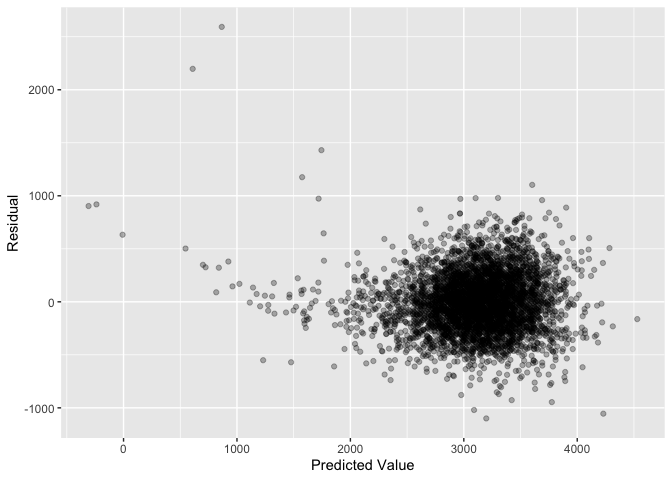
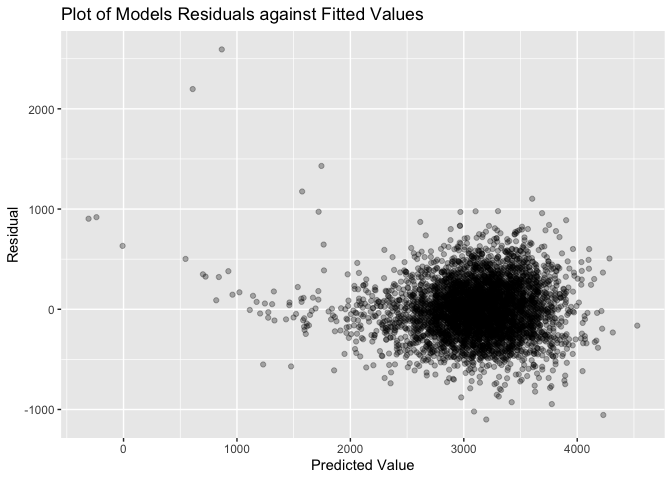
changing my_model

diff --git a/p8105_hw6_zv2138.md b/p8105_hw6_zv2138.md
@@ -55,14 +55,42 @@ model.
 -   baby’s head circumference at birth (centimeters) - it is logical to
     think bigger headed babies are on average larger babies so weigh
     more
--   presence of malformations that could affect weight - clearly this
-    variable indicates it may affect the baby’s weight
 -   mother’s age at delivery (years) - research shows older mothers
     usually is associated with birth weight
 
 ``` r
-my_model = lm(bwt ~ babysex + gaweeks + wtgain + blength + bhead + malform + momage, data = birthweight_df) 
+my_model = lm(bwt ~ babysex + gaweeks + wtgain + blength + bhead + momage, data = birthweight_df) 
+
+summary(my_model)
 ```
+
+    ## 
+    ## Call:
+    ## lm(formula = bwt ~ babysex + gaweeks + wtgain + blength + bhead + 
+    ##     momage, data = birthweight_df)
+    ## 
+    ## Residuals:
+    ##      Min       1Q   Median       3Q      Max 
+    ## -1099.95  -189.44    -5.58   175.57  2592.87 
+    ## 
+    ## Coefficients:
+    ##                 Estimate Std. Error t value Pr(>|t|)    
+    ## (Intercept)   -6228.1945    97.8973 -63.620  < 2e-16 ***
+    ## babysexfemale    35.5362     8.7292   4.071 4.77e-05 ***
+    ## gaweeks          12.2825     1.5034   8.170 4.00e-16 ***
+    ## wtgain            3.7787     0.4037   9.360  < 2e-16 ***
+    ## blength          80.0583     2.0620  38.826  < 2e-16 ***
+    ## bhead           137.5529     3.5332  38.931  < 2e-16 ***
+    ## momage            7.1876     1.1222   6.405 1.67e-10 ***
+    ## ---
+    ## Signif. codes:  0 '***' 0.001 '**' 0.01 '*' 0.05 '.' 0.1 ' ' 1
+    ## 
+    ## Residual standard error: 282 on 4335 degrees of freedom
+    ## Multiple R-squared:  0.6972, Adjusted R-squared:  0.6968 
+    ## F-statistic:  1664 on 6 and 4335 DF,  p-value: < 2.2e-16
+
+After running summary on my model we see all variables are significant.
+I will keep all variables in my model.
 
 ## Plotting My Model
 
@@ -73,15 +101,13 @@ birthweight_df %>%
   ggplot(aes(x = pred, y = resid)) + 
   geom_point(alpha = .3) +
     labs(
+    title = "Plot of Models Residuals against Fitted Values",
     x = "Predicted Value",
     y = "Residual"
   )
 ```
 
 ![](p8105_hw6_zv2138_files/figure-gfm/unnamed-chunk-1-1.png)<!-- -->
-
-From the graph we see most residuals fall between -500 and 500. We see a
-few outliers present in the data with abnormally large residuals.
 
 ## Model Comparison
 
@@ -118,7 +144,7 @@ cv_birthweight_df %>%
     names_prefix = "rmse_") %>% 
   mutate(model = fct_inorder(model)) %>% 
   ggplot(aes(x = model, y = rmse)) +
-  geom_violin() + 
+  geom_boxplot() + 
   labs(
     x = "Model",
     y = "RMSE"
@@ -162,6 +188,8 @@ weather_df =
 ## Creating Bootsrap Samples and Results
 
 ``` r
+set.seed(10)
+
 boot_sample = function(df) {
   sample_frac(df, replace = TRUE)
 }
@@ -253,7 +281,7 @@ ci_r2 =
     ci_upper = quantile(r.squared, 0.975))
 ```
 
-The 95% confidence interval for *r̂*<sup>2</sup> is 0.8940075 to 0.927376
+The 95% confidence interval for *r̂*<sup>2</sup> is 0.893841 to 0.9275271
 
 The 95% confidence interval for log (*β̂*<sub>0</sub> \* *β̂*<sub>1</sub>)
-is 1.9653806 to 2.0586105
+is 1.9645723 to 2.0591261
